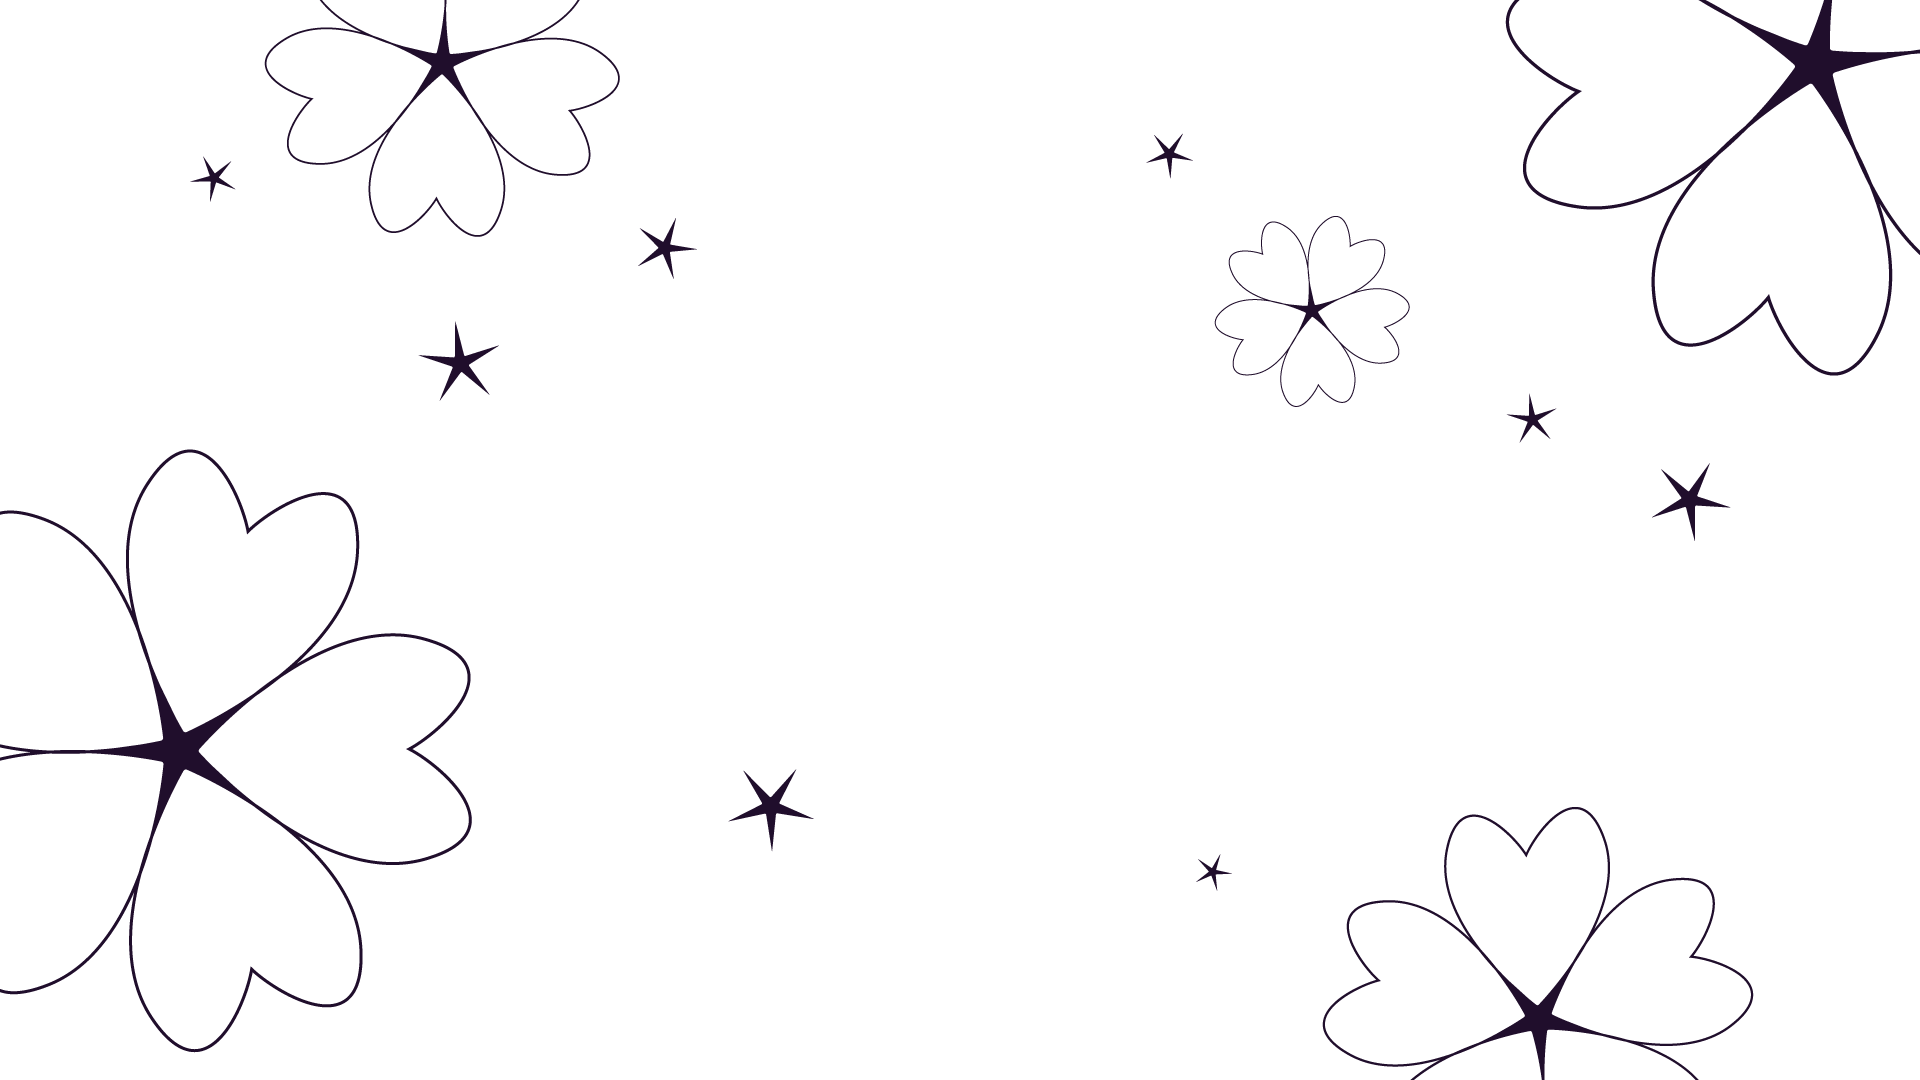
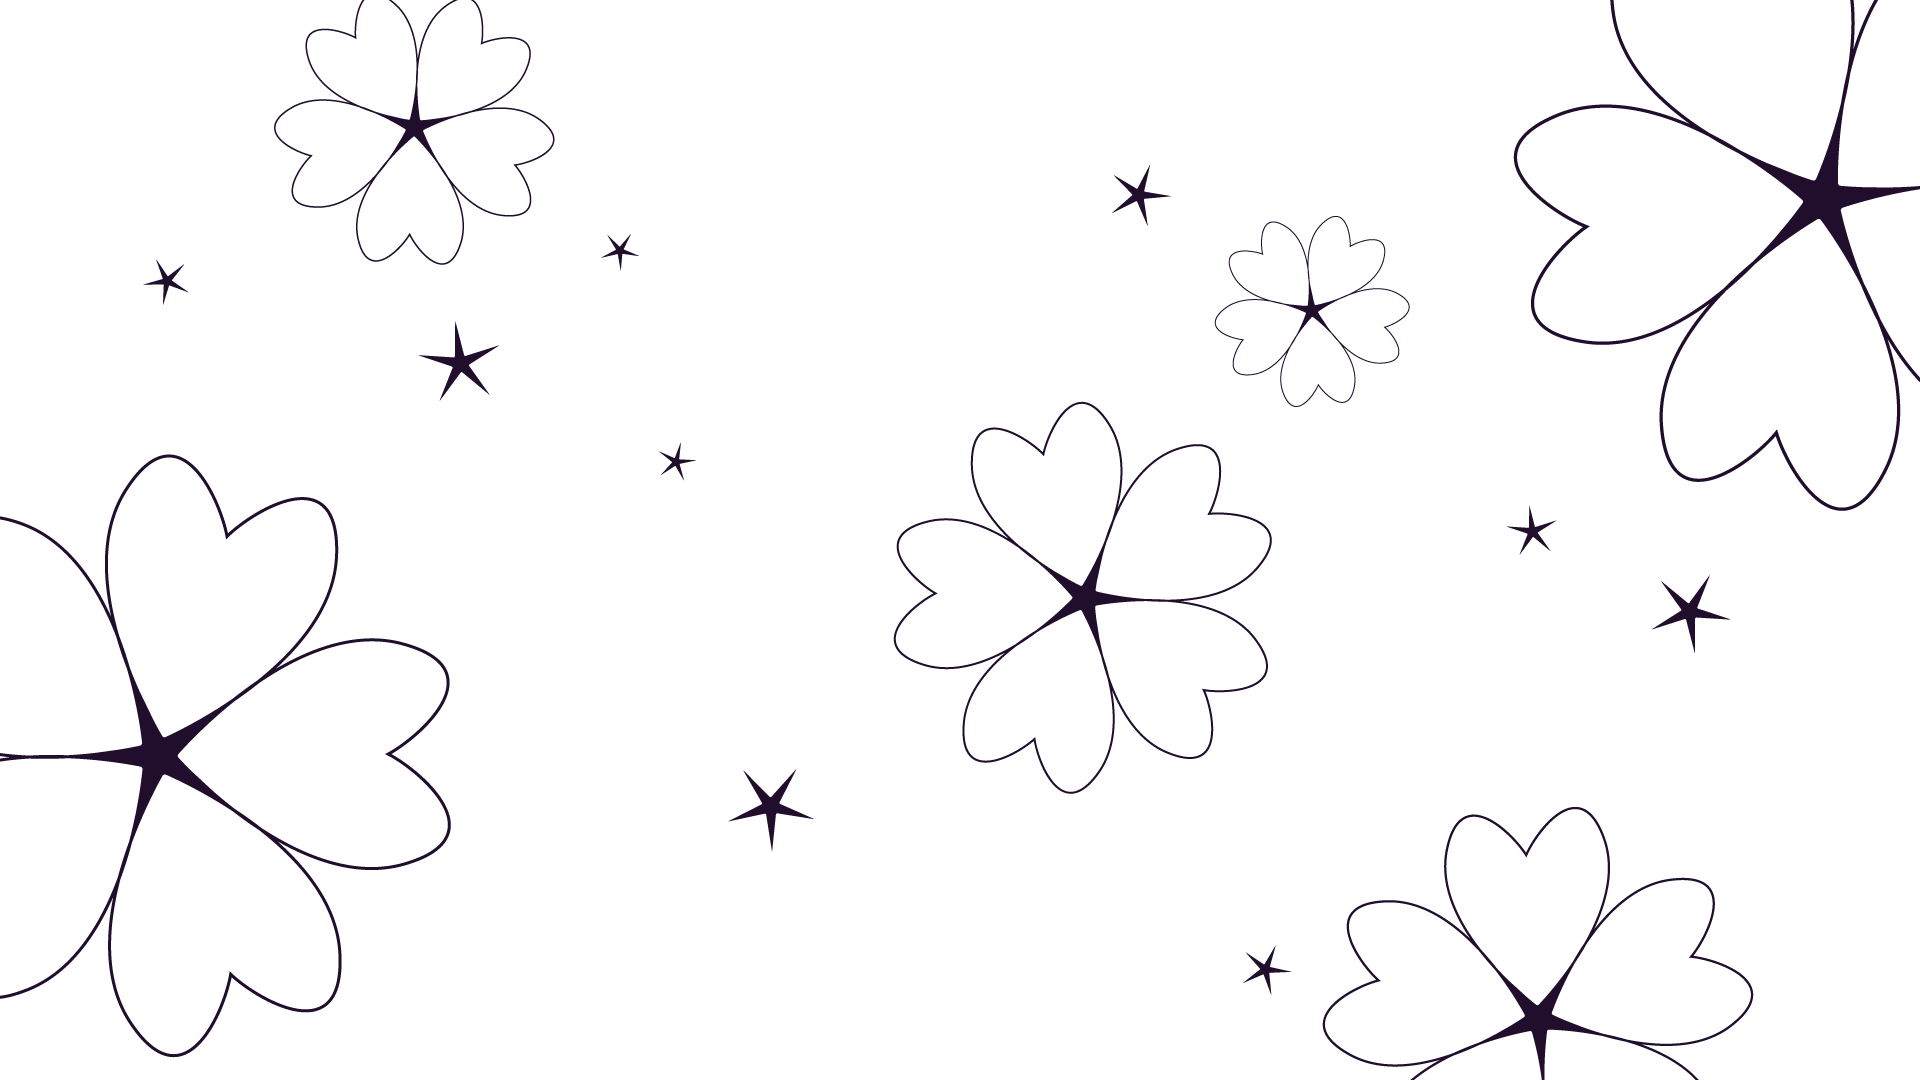
homepage viewport height & background image corrected for responsiveness

diff --git a/css/style.css b/css/style.css
@@ -2,8 +2,8 @@
 /*GLOBAL STYLES*/
 html {
   height:100%;
-  margin: 0px;
-  padding: 0px;
+  margin: 0;
+  padding: 0;
 }
 body, .bookshelf p {
   /* fallback */
@@ -26,9 +26,13 @@ body, .bookshelf p {
   min-height: 100%;
 }
 header, main {
-  margin: 0px 80px;
+  margin: 0 10vw;
 }
-
+@media (min-width:1200px) {
+  header, main {
+    margin: 0 5vw;
+  }
+}
 /* HEADER STYLES */
 h1 {
   /* fallback */
@@ -268,23 +272,14 @@ li{
 
 /* HOMEPAGE BACKGROUND*/
 .home-bg {
-  background-image:
-  url(../images/home-flower),
-  url(../images/home-flower),
-  url(../images/home-flower),
-  url(../images/home-flower),
-  url(../images/home-flower),
-  url(../images/home-star),
-  url(../images/home-star),
-  url(../images/home-star),
-  url(../images/home-star),
-  url(../images/home-star),
-  url(../images/home-star),
-  url(../images/home-star),
-  url(../images/home-star),
+  margin:0;
+  background:
+  url(../images/home-pattern.png),
   #9b5252;
+  /* position: fixed, static; */
   height:100vh;
-  background-size: contain;
+  background-size: cover;
+  background-position: center;
   background-repeat: no-repeat;
 }
 
@@ -306,37 +301,59 @@ i {
 }
 .contact-info{
   display:flex;
-  flex-direction: row;
+  flex-direction: column;
+  flex-wrap: wrap;
+}
+@media (min-width: 1200px) {
+  .contact-info{
+    flex-direction: row;
+  }
 }
 .contact-info p{
   font-size: 26px;
 }
-form {
-  width: 400px;
-  margin-left: 100px;
+form label{
+  /* width: 70vw; */
+  display: flex;
+  flex-direction: column;
+}
+
+@media (min-width: 1200px) {
+  form {
+    margin-left: 100px;
+  }
 }
 input,
 textarea {
   background: #F8EFDE;
-  width: 400px;
   margin-bottom: 10px;
   font: 300 18px 'Crimson Pro', serif;
   color: #200E2C;
 
 }
+input,textarea {
+  width: 75vw;
+  margin-top: 5px;
+}
+@media (min-width: 1200px) {
+  input,textarea {
+    width: 25vw;
+    margin-top: 5px;
+  }
+}
 input {
-  height: 20px;
+  height: 2vh;
   border: none;
   border-radius: 5px;
-  margin-top: 5px;
-  padding: 7px;
+
+  padding: 1vh;
 }
 textarea {
-  height: 100px;
+  height: 15vh;
   border: none;
   border-radius: 5px;
-  margin-top: 5px;
-  padding: 7px;
+
+  padding: 1vh;
 }
 ::placeholder {
   font-family: 'Crimson Pro', serif;
@@ -347,7 +364,7 @@ textarea {
   background: #9b5252;
   border: none;
   border-radius: 5px;
-  padding: 10px 20px;
+  padding: 1.5vh 1.5vw;
   font: 18px 'Crimson Pro', serif;
   color: #F8EFDE;
 }
@@ -363,6 +380,8 @@ button:hover {
 }
 label {
   font-size: 20px;
+  display: flex;
+  flex-direction: column;
 }
 .contact-success {
   margin-left: 100px;
@@ -378,7 +397,7 @@ label {
 @media (min-width: 600px) {
   body, .bookshelf p {
     /* fallback */
-    font-family: Georgia;
+    /* font-family: Georgia;
     line-height: 1.6;
     letter-spacing: -0.9px;
     word-spacing: -0.2px;
@@ -393,7 +412,7 @@ label {
     margin:0px;
     display: flex;
     flex-direction: column;
-    min-height: 100%;
+    min-height: 100%; */
   }
 }
 @media (min-width: 900px) {

diff --git a/index.html b/index.html
@@ -12,30 +12,29 @@
   </head>
 
   <body>
+  <header class="home-bg">
+    <nav>
+      <a href="index.html">
+        <img src="images/nav-logo.png" alt="Arlene Wang logo">
+      </a>
+      <a href="index.html">home</a>
+      <a href="about.html">about</a>
+      <a href="work.html">work</a>
+      <a href="contact.html">contact</a>
+    </nav>
 
-      <nav>
-        <a href="index.html">
-          <img src="images/nav-logo.png" alt="Arlene Wang logo">
-        </a>
-        <a href="index.html">home</a>
-        <a href="about.html">about</a>
-        <a href="work.html">work</a>
-        <a href="contact.html">contact</a>
-      </nav>
+    <h1 class="home-heading">Arlene Wang</h1>
+    <h2 class="home-subheading">Hi there! <br> Make yourself at home.</h2>
+  </header>
 
-      <header class="home-bg">
-        <h1 class="home-heading">Arlene Wang</h1>
-        <h2 class="home-subheading">Hi there! <br> Make yourself at home.</h2>
-      </header>
-    </div>
-      <main role="main" class="home-intro">
-        <img class="home-hearts" src="images/hearts.png" alt="">
-        <p>I'm on my gap year before university to try new things - to make mistakes, and learn from them. So far, I've been...<br><br>
-          • <a href="./gap-year/plants.html">Growing</a> flowers, fruits, and herbs (18 kinds of plants to date!),<br>
-          • <a href="./gap-year/books.html">Reading</a> up on personal finance, in time for my 18th birthday,<br>
-          • <a href="./gap-year/recipes.html">Baking</a> breads and simmering soups, and<br>
-          • Learning design and web development (which, if you're seeing this, is probably going well)!<br><br>Enjoy your stay!</p>
-      </main>
+  <main role="main" class="home-intro">
+    <img class="home-hearts" src="images/hearts.png" alt="">
+    <p>I'm on my gap year before university to try new things - to make mistakes, and learn from them. So far, I've been...<br><br>
+      • <a href="./gap-year/plants.html">Growing</a> flowers, fruits, and herbs (18 kinds of plants to date!),<br>
+      • <a href="./gap-year/books.html">Reading</a> up on personal finance, in time for my 18th birthday,<br>
+      • <a href="./gap-year/recipes.html">Baking</a> breads and simmering soups, and<br>
+      • Learning design and web development (which, if you're seeing this, is probably going well)!<br><br>Enjoy your stay!</p>
+  </main>
 
     <footer>
       <p> Copyright © 2020 Arlene Wang • All rights reserved • Made with ♥</p>

diff --git a/contact.html b/contact.html
@@ -6,6 +6,7 @@
     <link rel="stylesheet" href="css/style.css">
     <link href="https://fonts.googleapis.com/css2?family=Crimson+Pro:ital,wght@0,300;0,500;1,300;1,500&family=Yeseva+One&display=swap" rel="stylesheet">
     <script src="https://kit.fontawesome.com/3bb054fa84.js" crossorigin="anonymous"></script>
+    <!-- <script src="menu.js"></script> -->
 
     <title>contact | Arlene Wang</title>
   </head>
@@ -15,10 +16,15 @@
       <a href="index.html">
         <img src="images/nav-logo.png" alt="Arlene Wang logo">
       </a>
-      <a href="index.html">home</a>
-      <a href="about.html">about</a>
-      <a href="work.html">work</a>
-      <a href="contact.html">contact</a>
+      <!-- <div id="links"> -->
+        <a href="index.html">home</a>
+        <a href="about.html">about</a>
+        <a href="work.html">work</a>
+        <a href="contact.html">contact</a>
+      <!-- </div> -->
+      <!-- <a href="javascript:void(0);" class="menu-icon" onclick="mobileMenu()"> -->
+        <!-- <i class="fa fa-bars fa-3x"></i> -->
+      </a>
     </nav>
 
     <header>
@@ -34,14 +40,13 @@
       <a target="_blank" href="https://www.linkedin.com/in/arlene-wang-4497a71a2/"><i class="fab fa-linkedin fa-3x"></i></a>
 
       <form method="POST" action="http://www.focuspocus.io/magic/486b72fa8d29c8a2c08288f6bb4b7520">
-        <label for="name">Name</label>
-        <input id="name" type="text" name="name" required>
+        <label for="name">Name<input id="name" type="text" name="name" required></label>
 
-        <label for="email">Email</label>
-        <input id="email" type="email" name="email" required>
+        <label for="email">Email<input id="email" type="email" name="email" required></label>
 
-        <label for="message">Message</label>
-        <textarea id="message" name="message" placeholder="What's on your mind?" required></textarea>
+
+        <label for="message">Message<textarea id="message" name="message" placeholder="What's on your mind?" required></textarea></label>
+
 
         <button type="submit" value="Submit">Submit</button>
       </form>

diff --git a/menu.js b/menu.js
@@ -1,0 +1,8 @@
+function mobileMenu() {
+  var x = document.getElementById("links");
+  if (x.style.display === "block") {
+    x.style.display = "none";
+  } else {
+    x.style.display = "block";
+  }
+}
